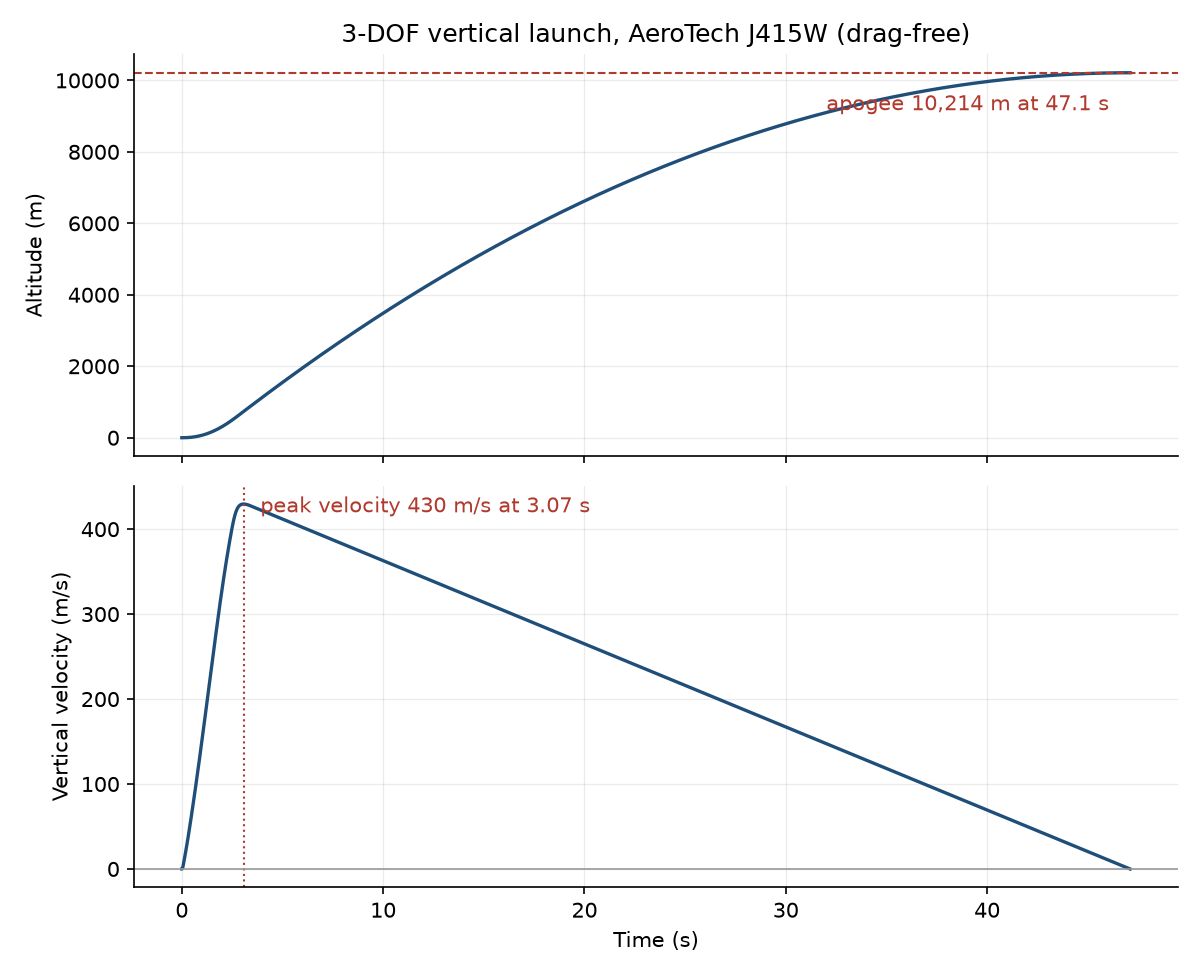
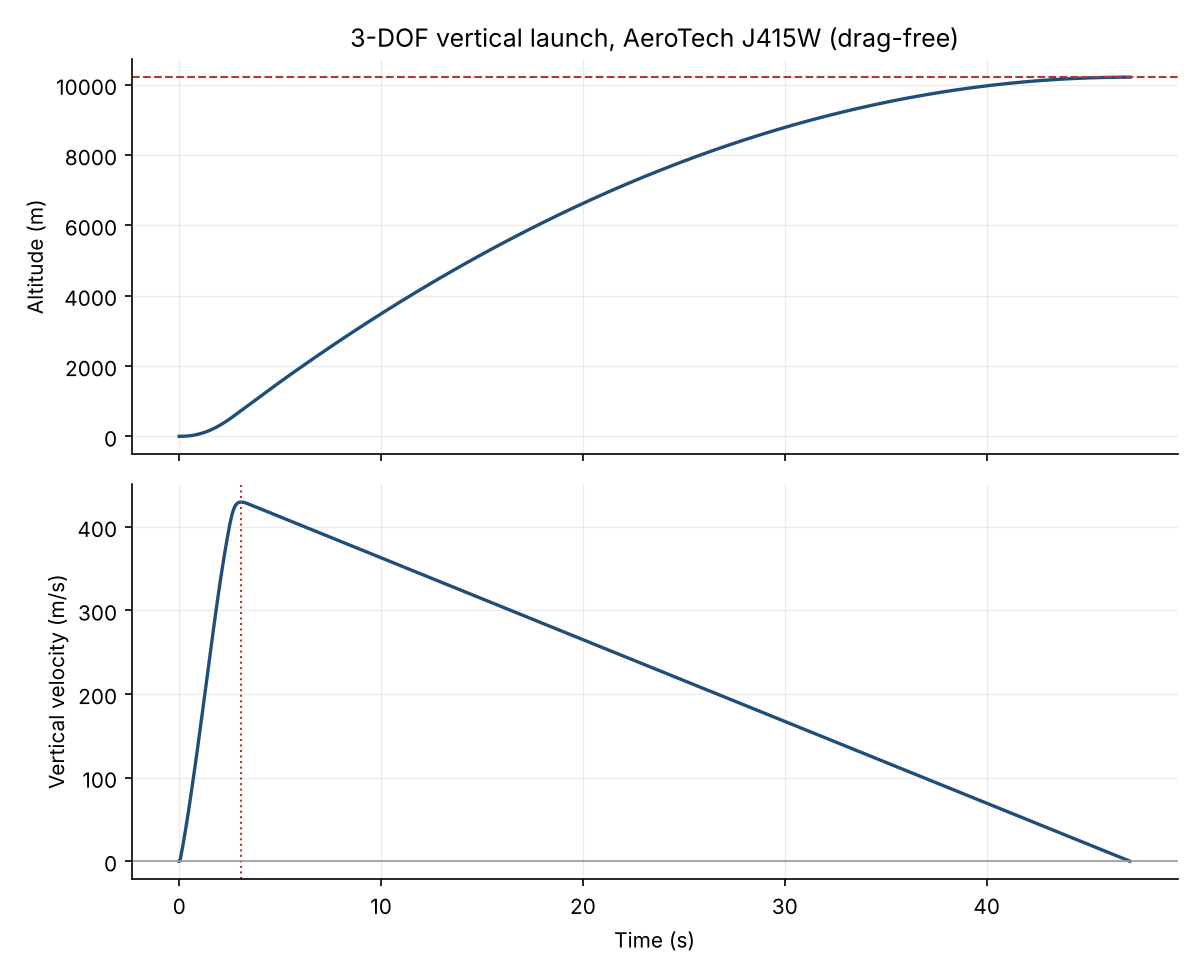
docs: update plot for README

diff --git a/scripts/plot.py b/scripts/plot.py
@@ -41,37 +41,22 @@ def main():
 
     time, altitude, velocity = read_trace(args.csv_path)
 
+    # the trajectory is unvalidated (no closed-form apogee check yet), so the
+    # figure marks apogee and peak velocity without printing their values
     apogee = max(altitude)
-    apogee_t = time[altitude.index(apogee)]
     # velocity peaks where thrust has decayed to vehicle weight, which for a
     # motor with a tail-off comes a little before true burnout
-    peak_v = max(velocity)
-    peak_t = time[velocity.index(peak_v)]
+    peak_t = time[velocity.index(max(velocity))]
 
     fig, (top, bottom) = plt.subplots(2, 1, sharex=True, figsize=(8, 6.5))
 
     top.plot(time, altitude, color=ASCENT, linewidth=1.6)
     top.axhline(apogee, color=ACCENT, linestyle="--", linewidth=1.0)
-    top.annotate(
-        f"apogee {apogee:,.0f} m at {apogee_t:.1f} s",
-        xy=(apogee_t, apogee),
-        xytext=(-10, -18),
-        textcoords="offset points",
-        ha="right",
-        color=ACCENT,
-    )
     top.set_ylabel("Altitude (m)")
     top.set_title("3-DOF vertical launch, AeroTech J415W (drag-free)")
 
     bottom.plot(time, velocity, color=ASCENT, linewidth=1.6)
     bottom.axvline(peak_t, color=ACCENT, linestyle=":", linewidth=1.0)
-    bottom.annotate(
-        f"peak velocity {peak_v:.0f} m/s at {peak_t:.2f} s",
-        xy=(peak_t, peak_v),
-        xytext=(8, -4),
-        textcoords="offset points",
-        color=ACCENT,
-    )
     bottom.axhline(0.0, color="#999999", linewidth=0.8)
     bottom.set_ylabel("Vertical velocity (m/s)")
     bottom.set_xlabel("Time (s)")
